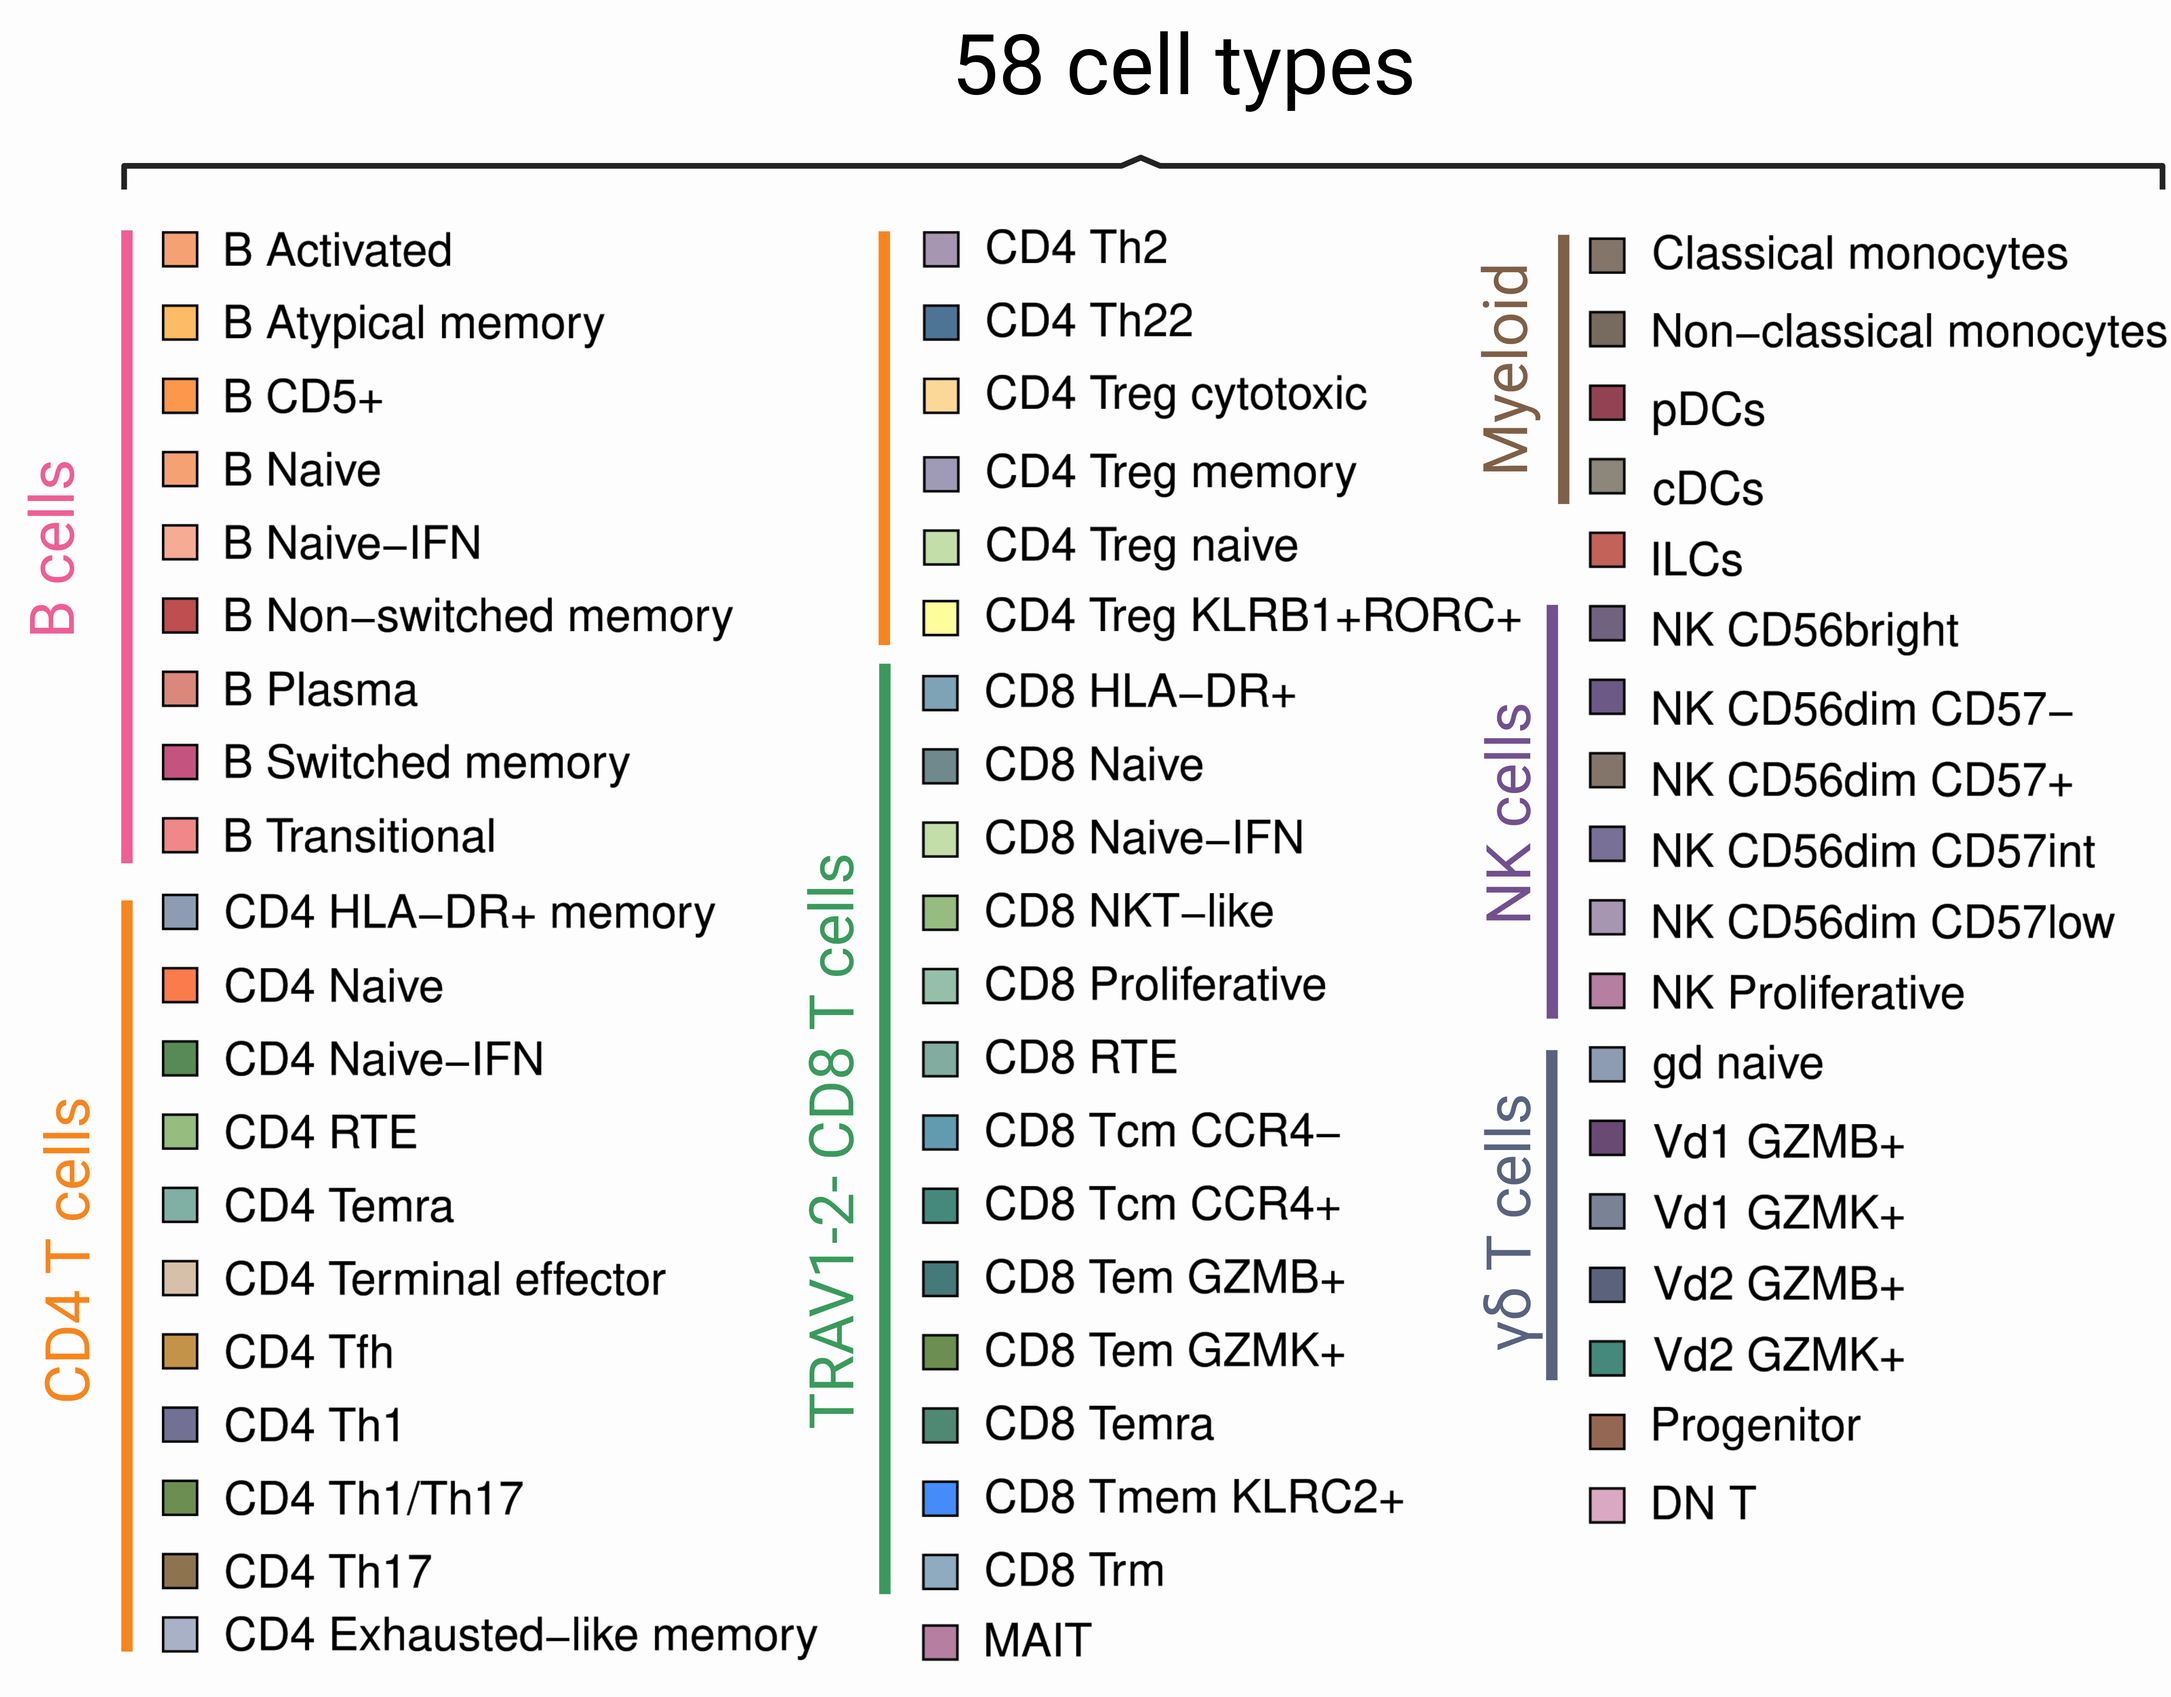
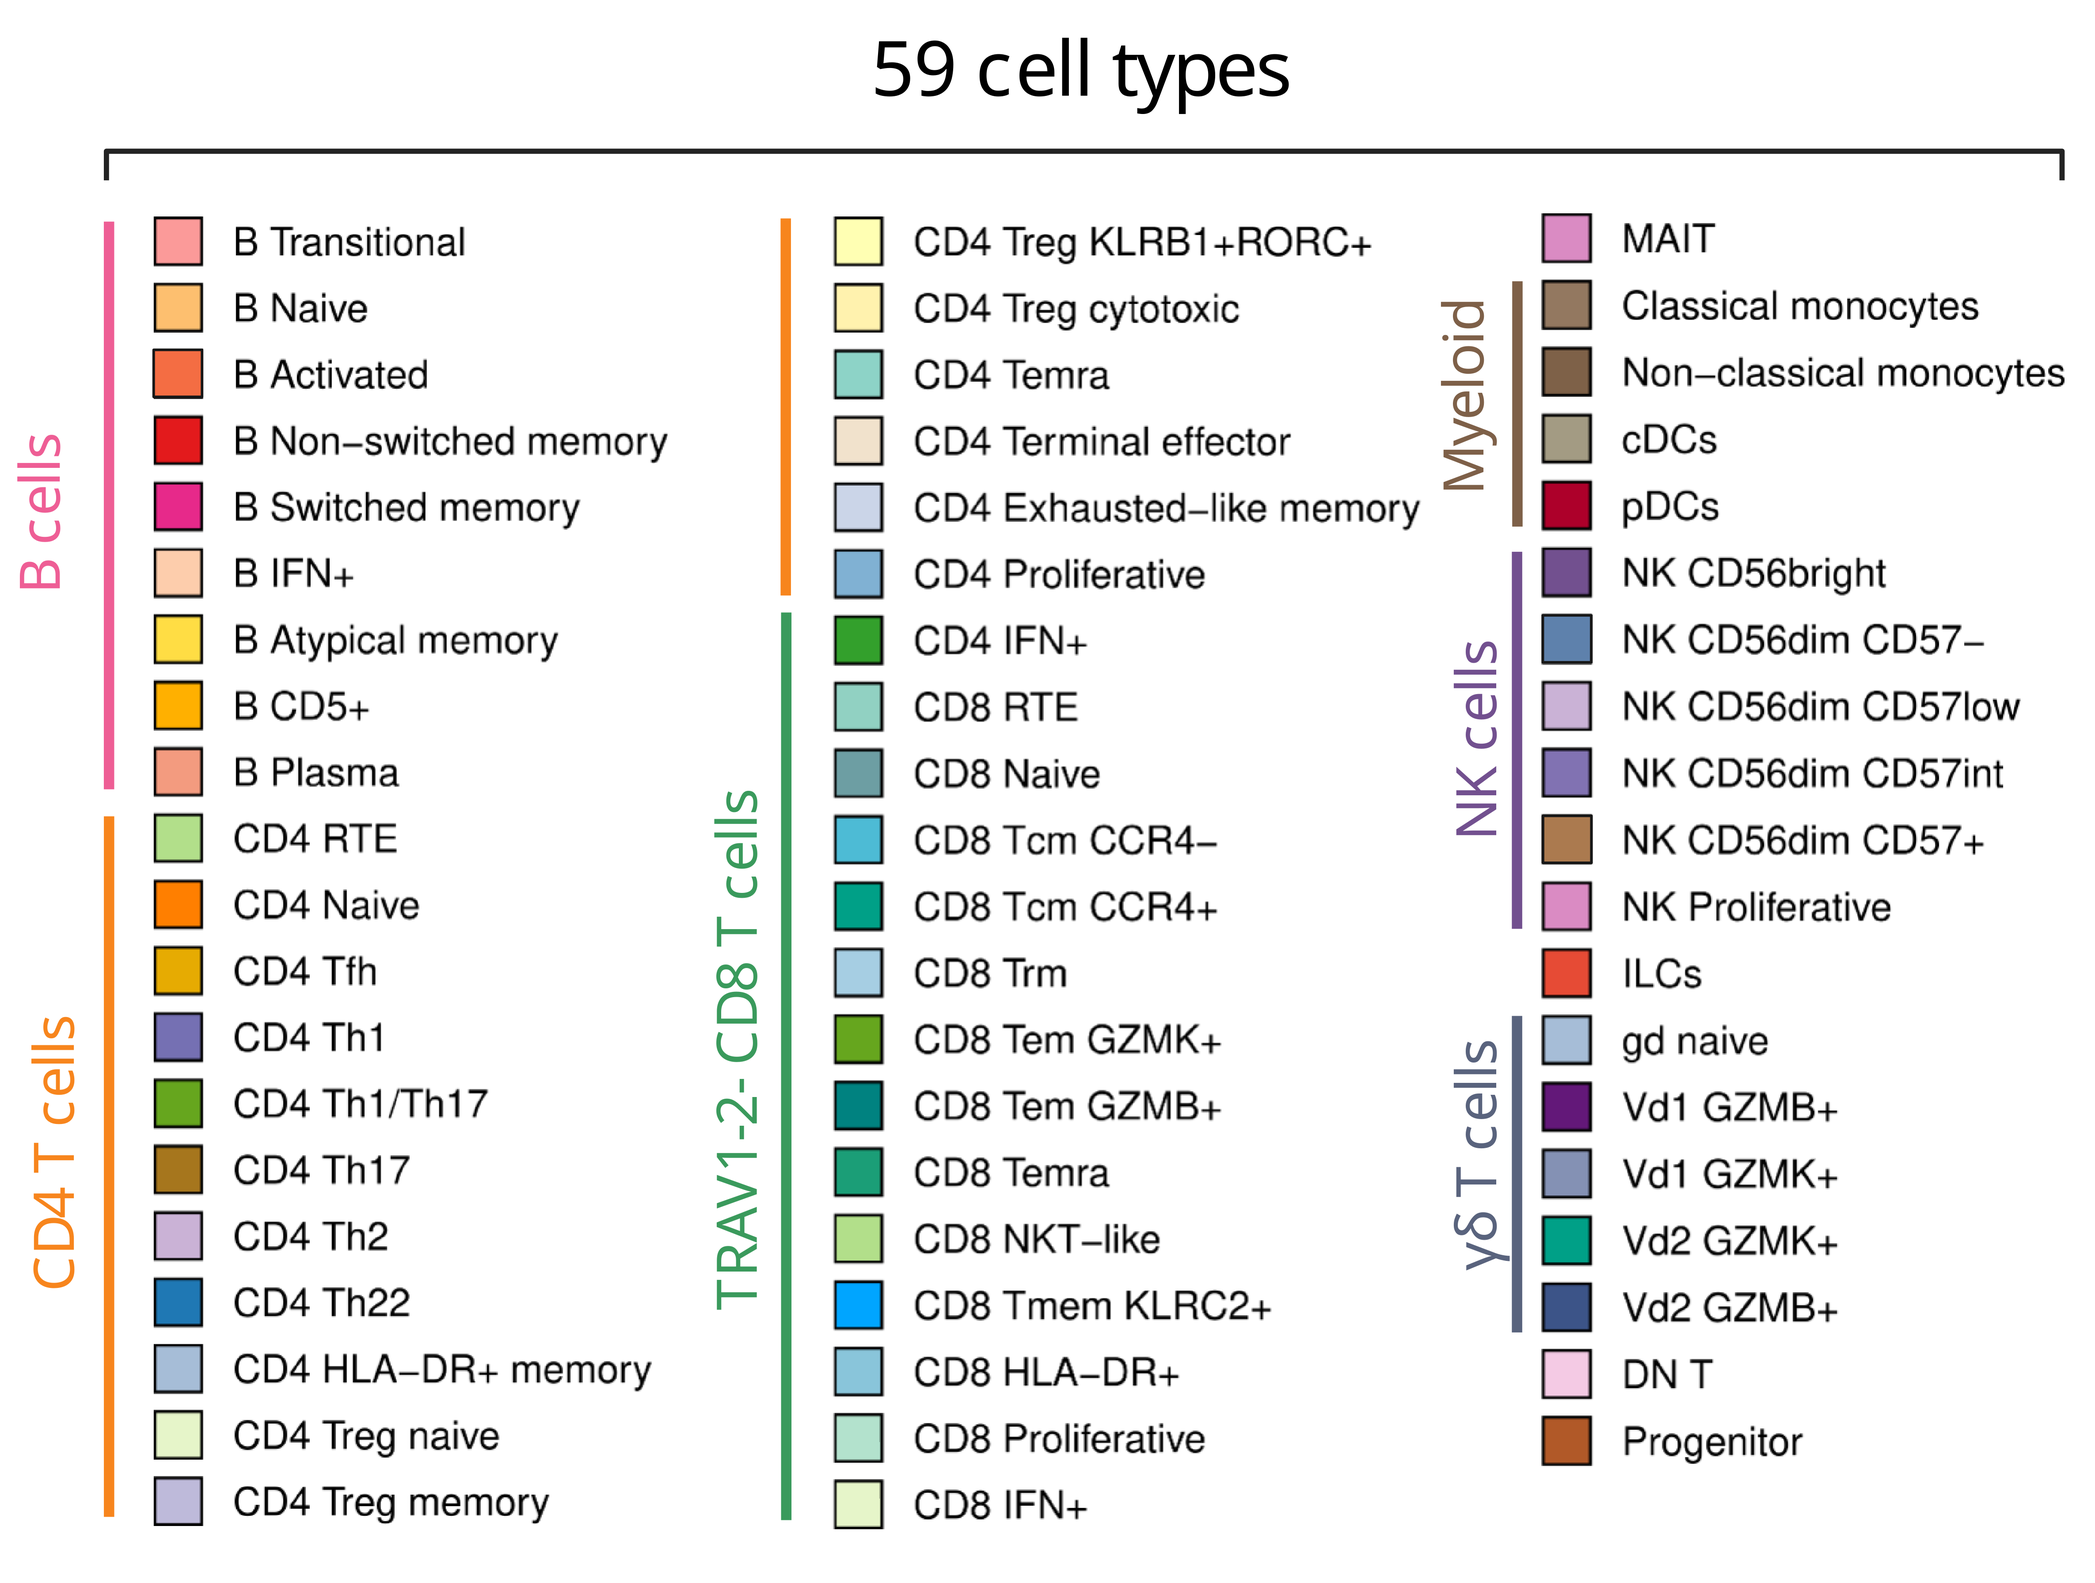
start changing to 8 datasets

Changed region(s): [[0.0, 0.0929, 0.9989, 0.9913], [0.4058, 0.0, 0.6556, 0.062]]

diff --git a/src/pages/CohortsPage.tsx b/src/pages/CohortsPage.tsx
@@ -38,9 +38,9 @@ export const CohortsPage: React.FC<CohortsPageProps> = (input) => {
           </div>
           <div className="flex-1 bg-white flex items-center justify-center text-center p-4">
             <div>
-              <p className="text-lg font-semibold text-gray-800">6 datasets</p>
-              <p className="text-lg font-semibold text-gray-800">2000 donors</p>
-              <p className="text-lg font-semibold text-gray-800">5.2 million cells</p>
+              <p className="text-lg font-semibold text-gray-800">8 datasets</p>
+              <p className="text-lg font-semibold text-gray-800">2609 donors</p>
+              <p className="text-lg font-semibold text-gray-800">12.3 million cells</p>
             </div>
           </div>
         </div>
